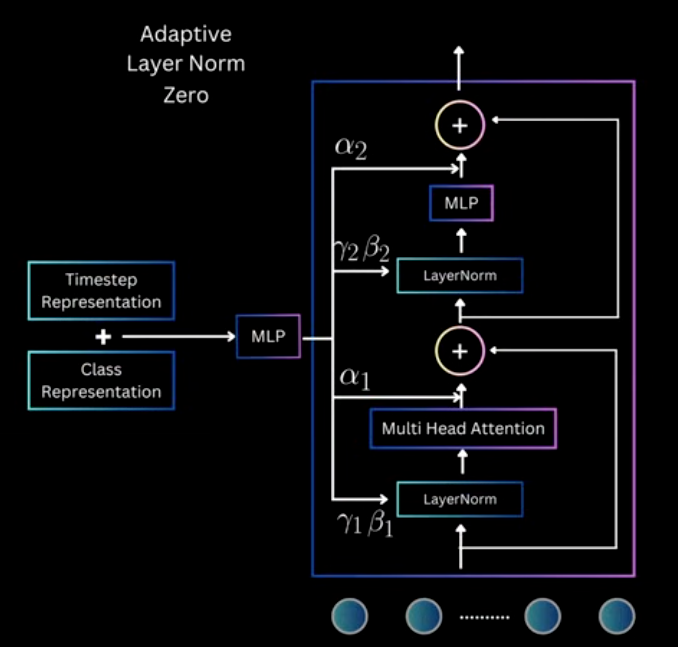
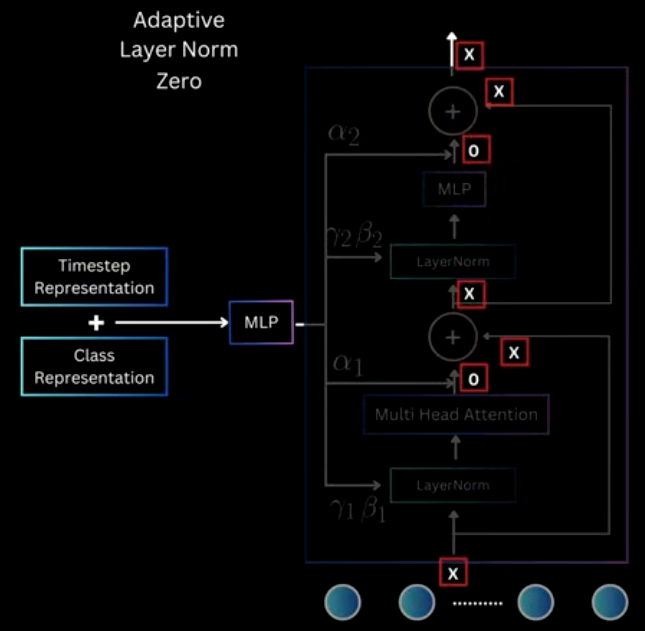
wip

Changed region(s): [[0.031, 0.0301, 0.9922, 0.9937], [0.186, 0.0, 0.3721, 0.1807]]

diff --git a/_posts/2025/25-12-18-DiT.md b/_posts/2025/25-12-18-DiT.md
@@ -56,7 +56,6 @@ class LayerNorm:
         x_layer_norm = self.gamma * (x - _mean / (_std + self.epsilon)) + self.beta
         return x_layer_norm
 ```
-![Alt text](/code25/assets/images/2025/25-12-18-DiT_files/3.png)
 and Adaptive Layernorm is use time and text embedding as scale and shift parameters
 ```python
 class DiTAdaLayerNorm:
@@ -79,7 +78,7 @@ class DiTAdaLayerNorm:
         x_layer_norm = gamma * (x - _mean / (_std + self.epsilon)) + beta
         return x_layer_norm
 ```
-![Alt text](/code25/assets/images/2025/25-12-18-DiT_files/4.png)
+![Alt text](/code25/assets/images/2025/25-12-18-DiT_files/3.png)
 4. adaLN-Zero Block
 What actually used is the Zero-Initialized version.
 ```python
@@ -105,4 +104,4 @@ class DiTBlock:
         x = x + alpha_2 * self.MLP(self.layer_norm(x, gamma_2, beta_2))
         return x
 ```
-![Alt text](/code25/assets/images/2025/25-12-18-DiT_files/5.png)
+![Alt text](/code25/assets/images/2025/25-12-18-DiT_files/4.png)

diff --git a/_posts/2025/25-12-15-param.md b/_posts/2025/25-12-15-param.md
@@ -67,7 +67,11 @@ max_num_seqs: int = Field(default=DEFAULT_MAX_NUM_SEQS, ge=1)    """Maximum numb
 ```
 - Set via `--max-num-seqs` CLI argument and default is 128
 
-    max_num_batched_tokens: int = Field(default=DEFAULT_MAX_NUM_BATCHED_TOKENS, ge=1)
+- `max_batch_size` is not a separate config parameter and it's typically just a local variable that's set equal to `max_num_seqs`.
+```python
+# __init__.py Line 46
+  max_batch_size = self.vllm_config.scheduler_config.max_num_seqs
+```
 
 ## 4 `max_num_batched_tokens`
 - Constraint: `max_num_batched_tokens` >= `max_num_seqs`
